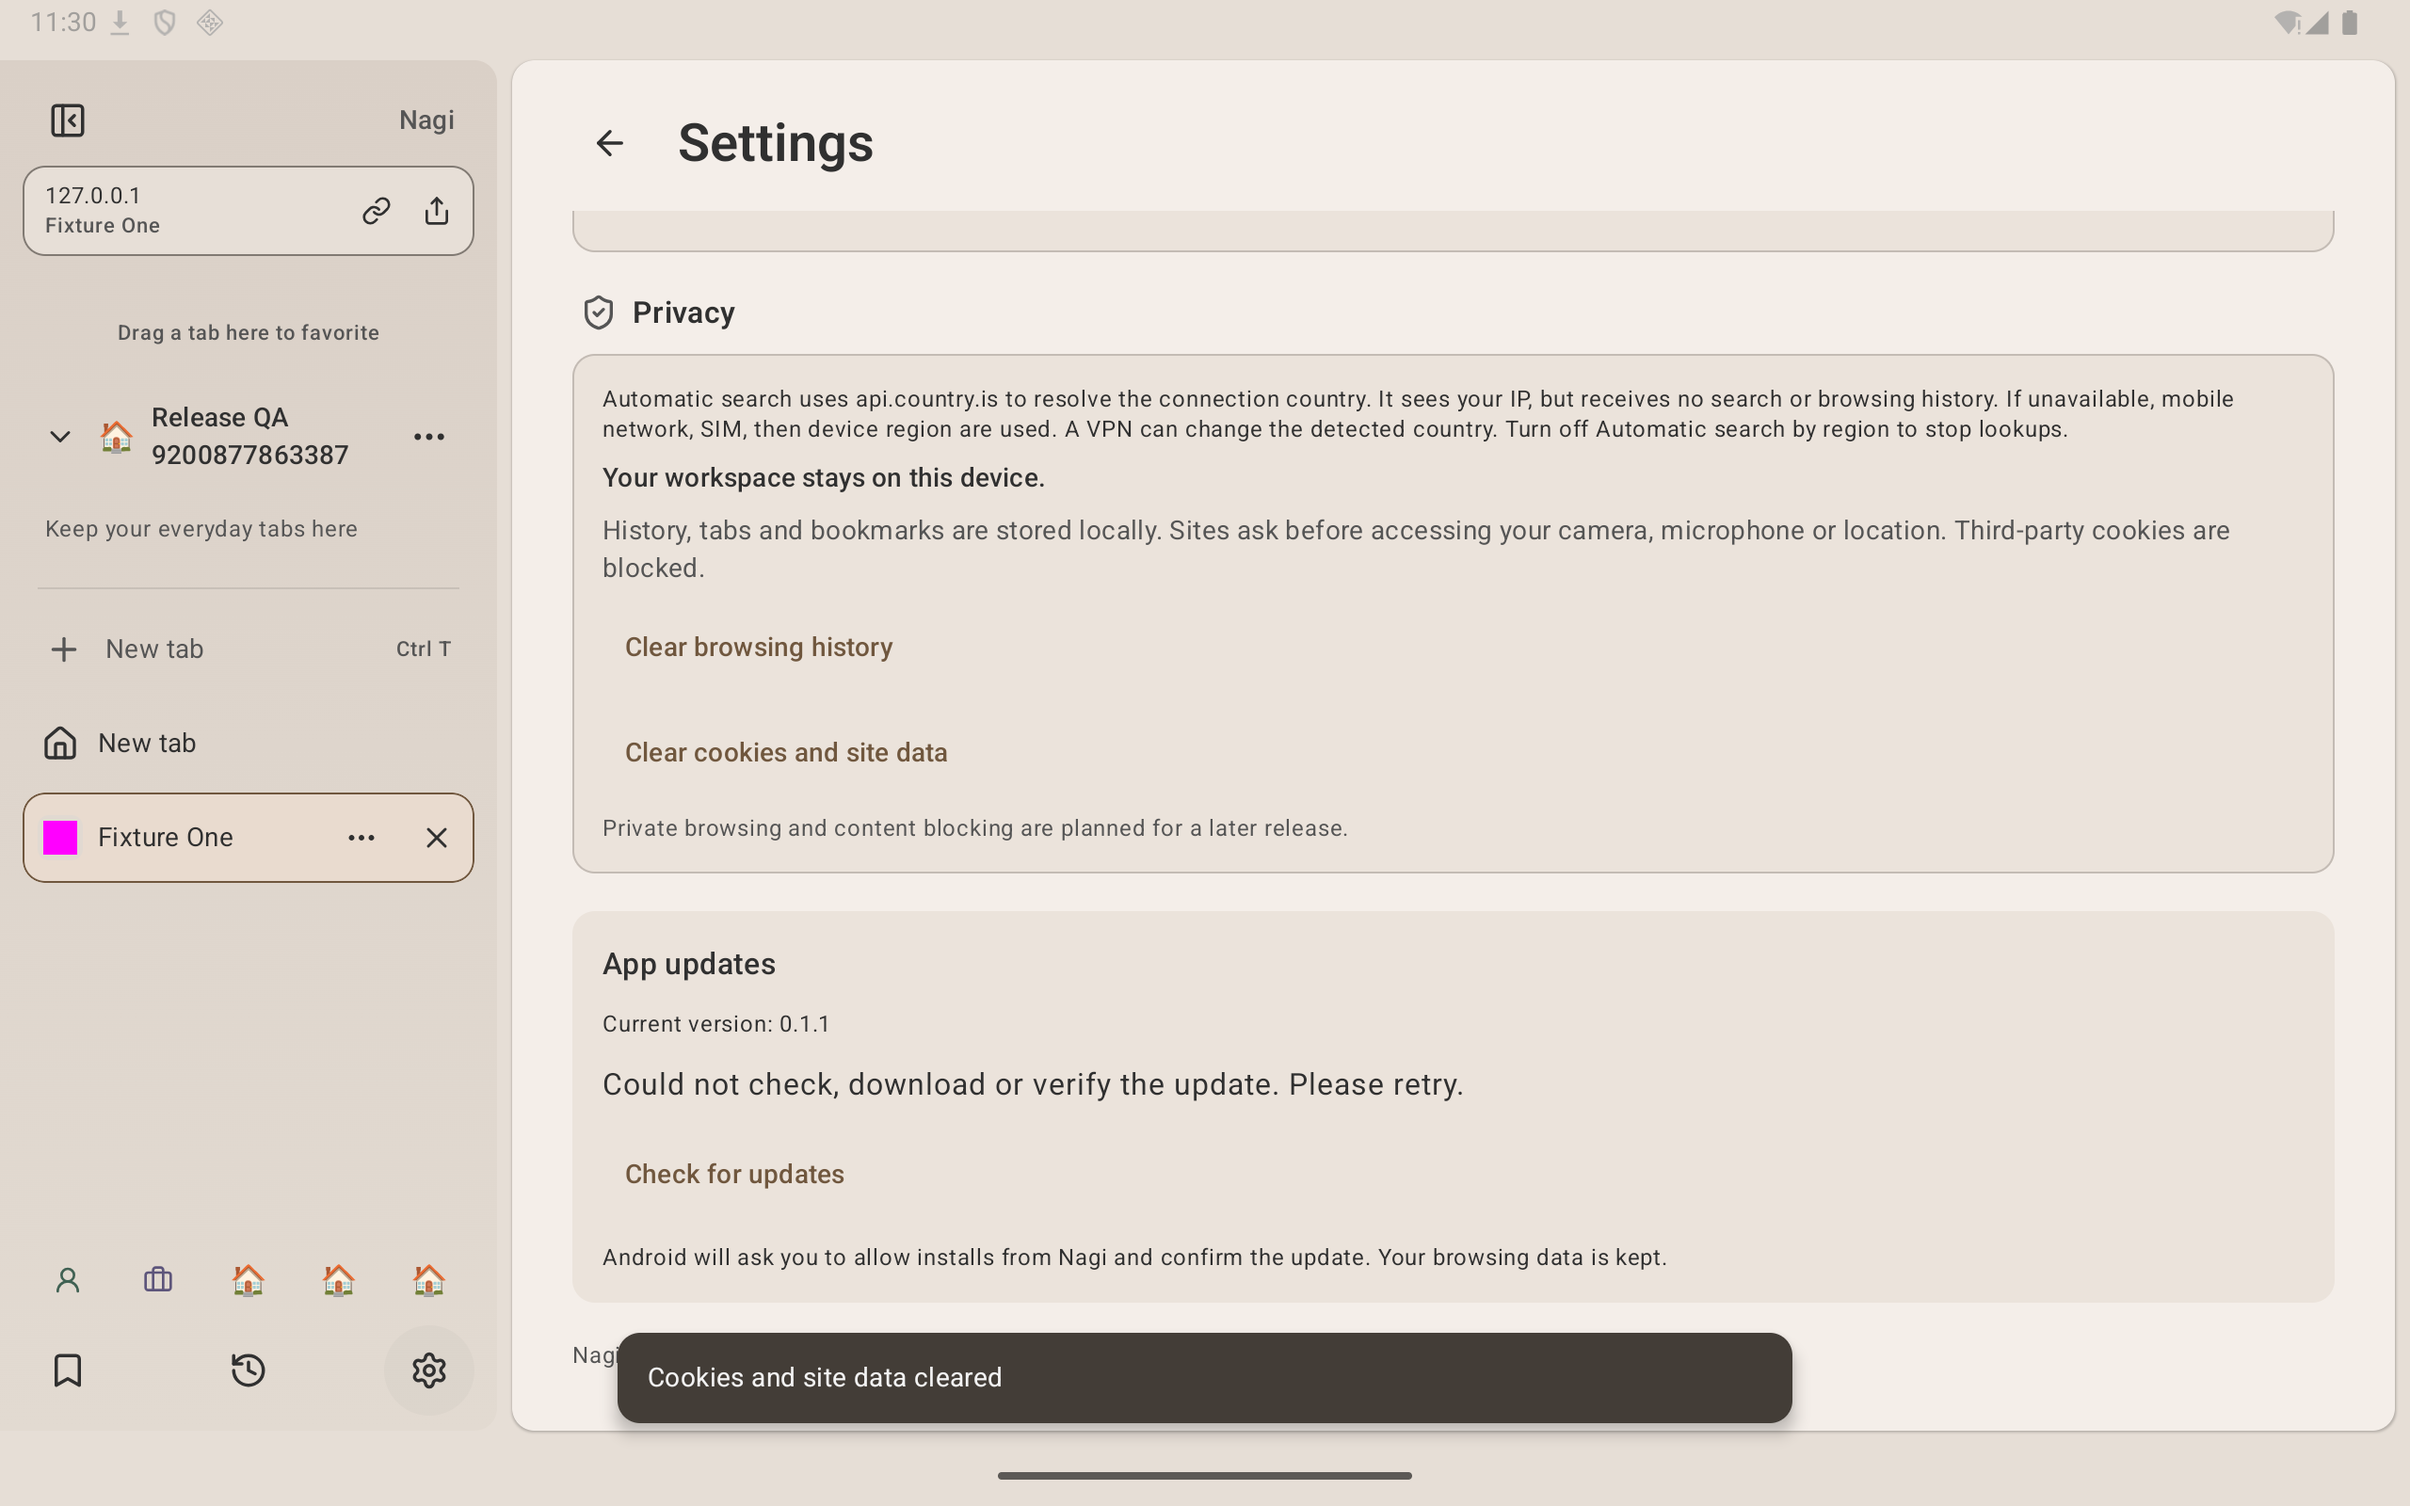
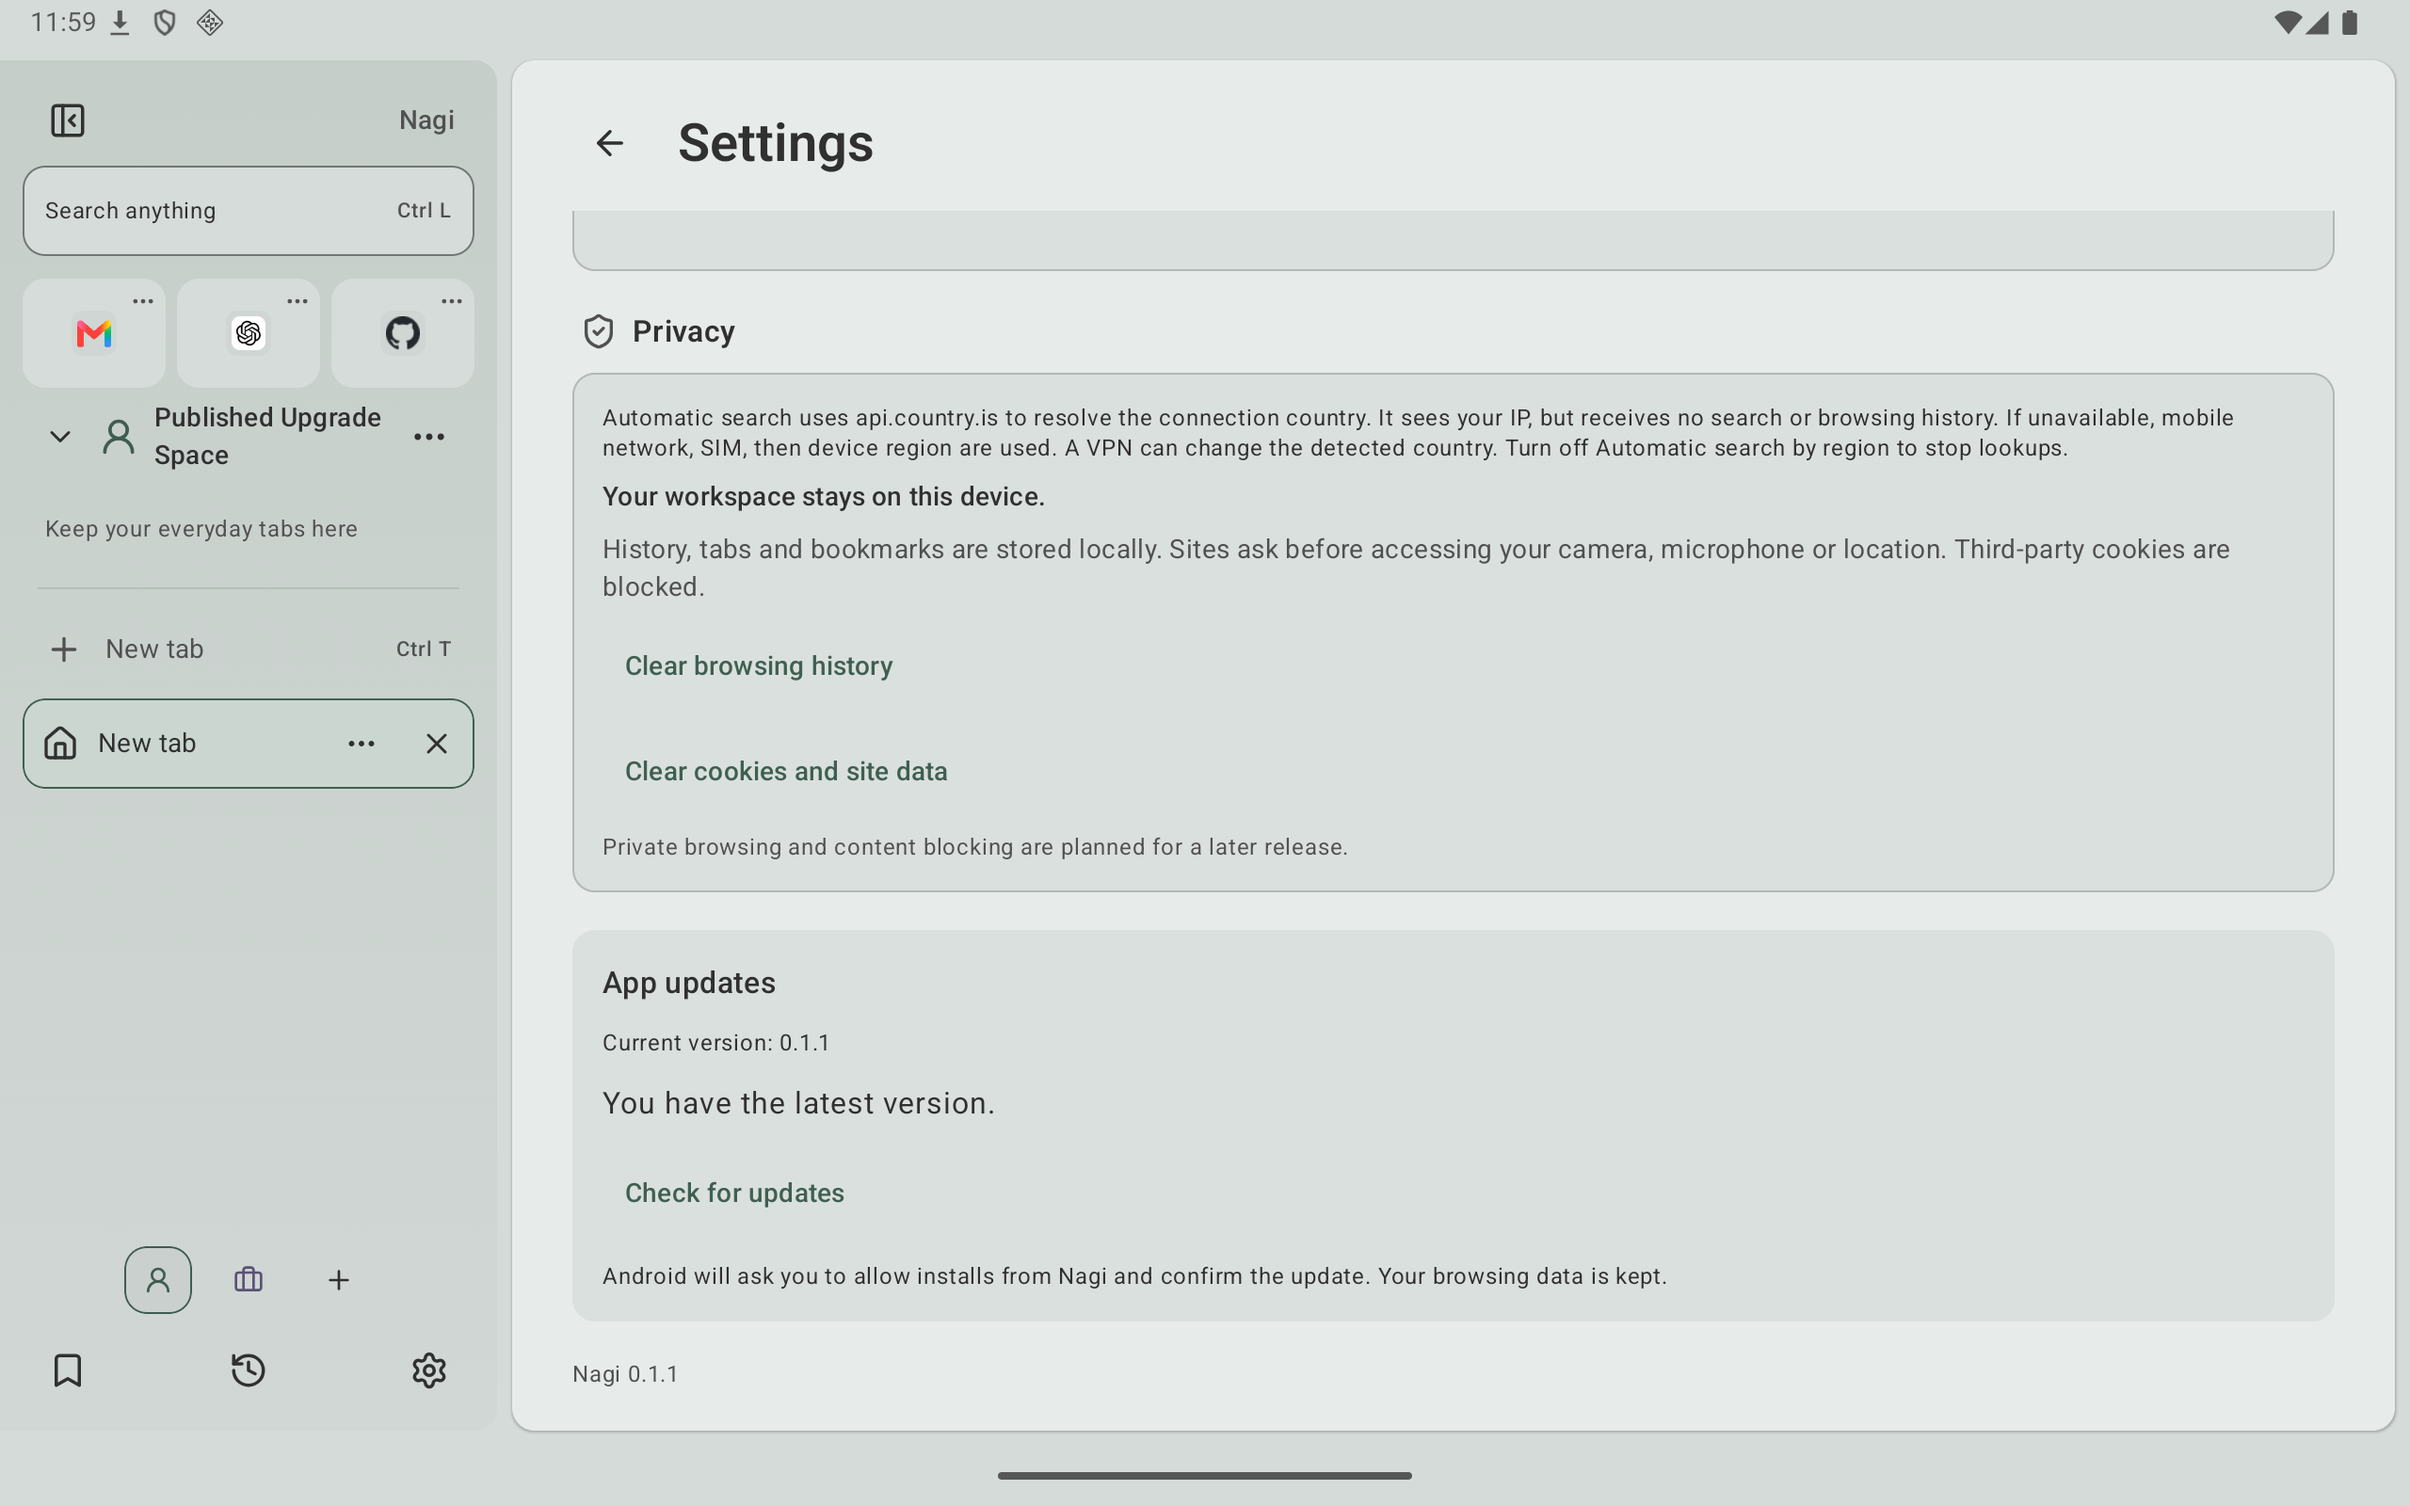
docs: record public download and in-app installation verification

diff --git a/docs/VALIDATION.md b/docs/VALIDATION.md
@@ -299,3 +299,6 @@ API 36のOrbit_Tablet_QAでOverflowMenuUiTest 3件、BrowserUiTest 3件、Sideba
 - After including the address-action and Space-frame UI changes, all 17 SidebarAddressBarTest/SidebarDragTest cases passed again.
 - Signed, non-debuggable Release build succeeded. Debug Lint: 0 errors, 34 warnings. These checks used the emulator; no physical device was connected.
 - Installed the actual 0.1.0 APK distributed at takeruf.com/nagi (code 1, certificate SHA-256 a36f6aa66c975c3fc2d2b2d4c424dbb911cbef08b4e16532eba82acd6d7468cc), seeded a named Space and Bookmark, and installed the signed Release with `adb install -r` without uninstalling. Android reported 0.1.1/code 2, and both records remained visible in the running Release UI.
+
[1 lines of base64/hex data omitted]
+- A QA client using the updater code with versionCode 1 and the distribution signature detected the public release, downloaded and verified it, opened the unknown-source setting, and completed Android's Update confirmation. The installed app reported 0.1.1/code 2; the named Space and Bookmark remained visible. The normal Release then displayed “You have the latest version.” Initial emulator DNS failures were resolved by restarting the QA emulator with explicit DNS servers; no update transport was replaced or bypassed.
